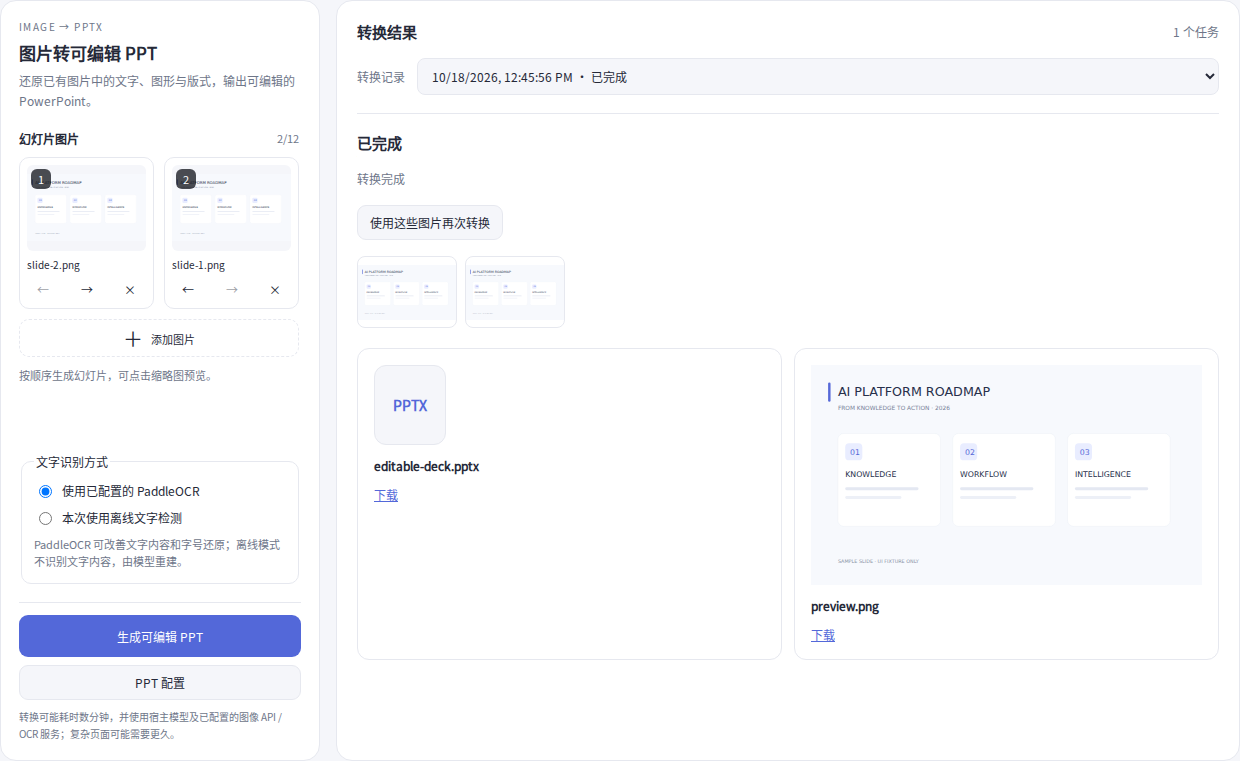
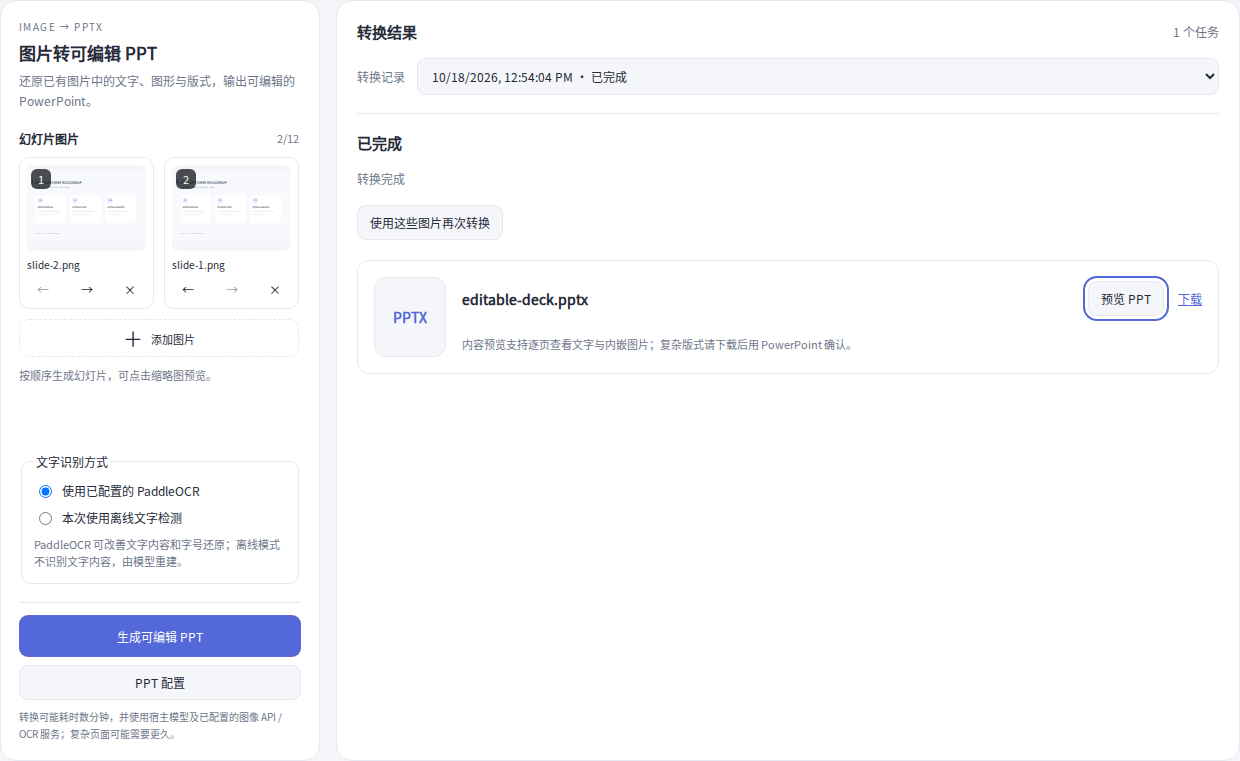
feat: preview final PPT only and retain task diagnostic identifiers

diff --git a/src/client/PptWorkspace.tsx b/src/client/PptWorkspace.tsx
@@ -4,6 +4,7 @@ import type { CanvasAssetRef, CanvasSkillCatalog, CanvasSkillTask } from '../pro
 import type { ImageGenApi } from './api.ts'
 import { errorMessage, tt } from './helpers.ts'
 import { useImageGenLanguageTick } from './use-language.ts'
+import { CanvasFileOverlay } from './CanvasFilePreview.tsx'
 import { PptSetup, PPT_SKILL_NAME } from './PptSetup.tsx'
 import css from './ppt-workspace.module.css'
 
@@ -50,7 +51,9 @@ export function PptWorkspace({ api, active, importRequest, onImported }: { api: 
   const [error, setError] = useState('')
   const [settingsOpen, setSettingsOpen] = useState(false)
   const [sourcePreview, setSourcePreview] = useState<CanvasAssetRef>()
-  useEffect(() => { if (!active) { setSettingsOpen(false); setSourcePreview(undefined) } }, [active])
+  const [pptPreview, setPptPreview] = useState<CanvasAssetRef>()
+  const [diagnostic, setDiagnostic] = useState<CanvasSkillTask>()
+  useEffect(() => { if (!active) { setSettingsOpen(false); setSourcePreview(undefined); setPptPreview(undefined); setDiagnostic(undefined) } }, [active])
   const [selected, setSelected] = useState<string>()
   const fileInput = useRef<HTMLInputElement>(null)
   const uploadQueue = useRef(Promise.resolve())
@@ -163,22 +166,28 @@ export function PptWorkspace({ api, active, importRequest, onImported }: { api: 
           <div className={css.resultActions}>
             <button type="button" disabled={busy || uploading} onClick={() => { commit(focused.pptImages ?? []); setError('') }}>{tt('ppt.reuseImages')}</button>
             {focused.status === 'failed' || focused.status === 'cancelled' ? <button type="button" disabled={!ready || busy || uploading || !focused.pptImages?.length} onClick={() => { commit(focused.pptImages ?? []); void submit(focused.pptImages) }}>{tt('ppt.retry')}</button> : null}
-            {focused.status === 'failed' ? <button type="button" onClick={() => setSettingsOpen(true)}>{tt('ppt.checkSetup')}</button> : null}
+            {focused.status === 'failed' ? <><button type="button" onClick={() => setSettingsOpen(true)}>{tt('ppt.checkSetup')}</button><button type="button" data-ppt-diagnostic="" onClick={() => setDiagnostic(focused)}>{tt('ppt.diagnostic')}</button></> : null}
           </div>
-          <div className={css.sourceStrip}>{focused.pptImages?.map((image, index) => <img key={index} src={image.url} alt={`Slide ${index + 1}`} />)}</div>
           {focused.output?.warnings.map((warning, index) => <p key={index} className={css.note}>{warning}</p>)}
           <div className={css.outputs}>{focused.output?.nodes.map(node => {
             const asset = node.metadata?.asset
-            if (!asset) return null
-            return <article key={node.id}>
-              {asset.mime.startsWith('image/') ? <img src={`${asset.url}?inline=1`} alt={asset.name || node.title} /> : <span className={css.fileIcon}>{asset.name?.toLowerCase().endsWith('.pptx') ? 'PPTX' : 'FILE'}</span>}
-              <strong>{asset.name || node.title}</strong><a href={asset.url} download={asset.name}>{tt('download')}</a>
+            if (!asset || !asset.name?.toLowerCase().endsWith('.pptx')) return null
+            return <article key={node.id} className={css.deckCard} data-ppt-deck="">
+              <span className={css.fileIcon}>PPTX</span>
+              <strong>{asset.name || node.title}</strong>
+              <div className={css.deckActions}><button type="button" data-ppt-preview="" onClick={() => setPptPreview(asset)}>{tt('ppt.previewDeck')}</button><a href={asset.url} download={asset.name}>{tt('download')}</a></div>
+              <small>{tt('ppt.previewHint')}</small>
             </article>
           })}</div>
         </section> : null}
       </>}
     </main>
     {settingsOpen ? <PptDialog title={tt('ppt.settingsTitle')} close={() => setSettingsOpen(false)}><PptSetup /></PptDialog> : null}
+    {diagnostic ? <PptDialog title={tt('ppt.diagnostic')} close={() => setDiagnostic(undefined)}>
+      <p className={css.diagnosticHint}>{tt(diagnostic.agentSessionId ? 'ppt.diagnosticHint' : 'ppt.legacyDiagnostic')}</p>
+      <textarea className={css.diagnosticText} readOnly rows={14} aria-label={tt('ppt.diagnostic')} onFocus={event => event.currentTarget.select()} value={JSON.stringify({ taskId: diagnostic.id, status: diagnostic.status, startedAt: new Date(diagnostic.startedAt).toISOString(), finishedAt: diagnostic.finishedAt ? new Date(diagnostic.finishedAt).toISOString() : undefined, agentSessionId: diagnostic.agentSessionId, runDirectory: diagnostic.runDirectory, error: diagnostic.error, inputCount: diagnostic.pptImages?.length }, null, 2)} />
+    </PptDialog> : null}
+    {pptPreview ? createPortal(<CanvasFileOverlay key={pptPreview.assetId} api={api} asset={pptPreview} fileKind="office" title={pptPreview.name || 'PPTX'} onClose={() => setPptPreview(undefined)} />, document.body) : null}
     {sourcePreview ? <PptDialog title={sourcePreview.name || tt('ppt.previewSource')} close={() => setSourcePreview(undefined)}><img className={css.sourcePreview} src={sourcePreview.url} alt={sourcePreview.name || ''} /></PptDialog> : null}
   </div>
 }

diff --git a/src/client/locales.ts b/src/client/locales.ts
@@ -3,6 +3,13 @@
  */
 
 export const zh = {
+  "ppt.diagnostic": "任务诊断",
+  "ppt.diagnosticHint": "这里保留任务、Agent 会话和运行目录，便于关联 DSH 运行日志。点击文本框可全选复制。",
+  "ppt.legacyDiagnostic": "这是旧任务，未保存 Agent 会话和原始错误，无法从这个通用报错恢复根因。请提供任务时间附近的 DSH 运行日志；点击文本框可复制任务信息。",
+
+  "ppt.previewDeck": "预览 PPT",
+  "ppt.previewHint": "内容预览支持逐页查看文字与内嵌图片；复杂版式请下载后用 PowerPoint 确认。",
+
   "ppt.agentFailed": "转换执行失败：{error}",
   "ppt.noAgentReply": "执行器没有返回回复或产物。请检查 DSH 默认模型的连接、额度及 Agent 预设中的文件和命令工具。",
 
@@ -1029,6 +1036,13 @@ export const zh = {
 } as const
 
 export const en: Record<keyof typeof zh, string> = {
+  "ppt.diagnostic": "Task diagnostics",
+  "ppt.diagnosticHint": "Use the task, agent session and directory to locate the DSH execution logs. Click the text area to select all.",
+  "ppt.legacyDiagnostic": "This older task did not retain its agent session or original error. Its root cause cannot be recovered from this generic message. Provide DSH logs around the task time. Click to copy the task details.",
+
+  "ppt.previewDeck": "Preview PPT",
+  "ppt.previewHint": "Content preview shows slide text and embedded pictures. Check complex layouts in PowerPoint after downloading.",
+
   "ppt.agentFailed": "Conversion execution failed: {error}",
   "ppt.noAgentReply": "The agent returned no reply or artifact. Check the DSH default model connection/quota and the preset file and command tools.",
 
@@ -2045,6 +2059,13 @@ export type ImageGenKey = keyof typeof zh
 
 /** Russian mirror of every key (полный словарь интерфейса). */
 export const ru: Record<keyof typeof zh, string> = {
+  "ppt.diagnostic": "Диагностика задания",
+  "ppt.diagnosticHint": "Используйте задание, сеанс агента и каталог для поиска журналов DSH. Нажмите текст для выделения.",
+  "ppt.legacyDiagnostic": "Старое задание не сохранило сеанс агента и исходную ошибку. Для определения причины нужны журналы DSH за время выполнения.",
+
+  "ppt.previewDeck": "Просмотр PPT",
+  "ppt.previewHint": "Просмотр показывает текст и встроенные изображения слайдов. Сложную вёрстку проверяйте в PowerPoint.",
+
   "ppt.agentFailed": "Ошибка преобразования: {error}",
   "ppt.noAgentReply": "Агент не вернул ответ или файл. Проверьте подключение/квоту модели DSH и инструменты файлов и команд.",
 

diff --git a/scripts/ppt-preview.tsx b/scripts/ppt-preview.tsx
@@ -10,6 +10,7 @@ const assets = [1, 2].map(index => ({ assetId: `slide-${index}.png`, url: '/slid
 let task: CanvasSkillTask | undefined
 const api = {
   async canvasFileUpload(file: File) { return { ...assets[0], name: file.name } },
+  async canvasFilePreview() { return { kind: 'slides', format: 'pptx', slides: [{ title: 'AI PLATFORM ROADMAP', lines: ['Editable presentation content', 'Knowledge → Workflow → Intelligence'], images: [] }, { title: 'NEXT STEPS', lines: ['Review the generated PPT in PowerPoint'], images: [] }], truncated: false } },
   async pptTasks() { return task ? [task] : [] },
   async canvasSkillsList() { return { skills: [], installed: ['image-to-editable-ppt'], agentAvailable: true, registryAvailable: true } },
   async canvasSkillLibrary() { return { entries: [{ name: 'image-to-editable-ppt', config: { values: [{ id: 'paddle-ocr-token', set: true }] } }] } },
@@ -27,6 +28,7 @@ function Preview() {
     <button onClick={() => {
       task = { id: 'ppt-preview', canvasId: 'ppt', skillId: 'ppt.fromImages', label: 'PPT', tier: 'heavy', status: 'completed', startedAt: Date.now() - 204000, pptImages: assets, stage: '转换完成', output: { nodes: [{ id: 'deck', type: 'file', title: 'editable-deck.pptx', x: 0, y: 0, width: 300, height: 170, metadata: { asset: { ...assets[0], assetId: 'deck.pptx', mime: 'application/vnd.openxmlformats-officedocument.presentationml.presentation', name: 'editable-deck.pptx', url: '/deck.pptx' } } }, { id: 'preview', type: 'file', title: 'preview.png', x: 0, y: 0, width: 300, height: 170, metadata: { asset: { ...assets[0], name: 'preview.png' } } }], connections: [], warnings: [] } }
     }}>示例完成</button>
+    <button onClick={() => { if (task) task = { ...task, status: 'failed', error: 'Model API returned 401', agentSessionId: 'skillagent-preview', runDirectory: '/example/ppt/run' } }}>示例失败</button>
     <button onClick={() => { task = undefined }}>清空示例</button>
   </header>{setup ? <main className="settings"><h2>图片转可编辑 PPT 配置</h2><PptSetup /></main> : <main><PptWorkspace api={api} active importRequest={importRequest} onImported={() => setImport(undefined)} /></main>}</div>
 }

diff --git a/src/client/ppt-workspace.module.css b/src/client/ppt-workspace.module.css
@@ -97,3 +97,13 @@
 .inputs .addTile { grid-column: 1 / -1; min-height: 38px; height: 38px; }
 .addTile > button { flex: none; flex-direction: row; min-height: 38px; height: 38px; padding: 4px 8px; }
 .addTile > button span { font-size: 20px; }
+
+.outputs { display: flex; flex-direction: column; }
+.outputs .deckCard { display: grid; grid-template-columns: 72px minmax(0, 1fr) auto; align-items: center; gap: 10px 16px; }
+.deckCard > .fileIcon { grid-row: span 2; }
+.outputs .deckCard > strong { font-size: 14px; }
+.deckActions { display: flex; align-items: center; gap: 14px; }
+.deckCard > small { grid-column: 2 / -1; color: var(--dsw-alias-label-secondary); font-size: 11px; line-height: 1.7; }
+@media (max-width: 760px) { .outputs .deckCard { grid-template-columns: 52px minmax(0, 1fr); gap: 12px; } .deckCard > .fileIcon { width: 52px; height: 64px; grid-row: span 2; } .deckActions { grid-column: 2; } .deckCard > small { grid-column: 1 / -1; } }
+.diagnosticHint { margin: 0 0 12px; color: var(--dsw-alias-label-secondary); font-size: 12px; line-height: 1.7; }
+.diagnosticText { width: 100%; box-sizing: border-box; resize: vertical; padding: 12px; border: 1px solid var(--dsw-alias-border-l2); border-radius: 8px; background: var(--dsw-alias-bg-layer-2); color: inherit; font: 12px/1.6 monospace; }

diff --git a/src/skill-runner.ts b/src/skill-runner.ts
@@ -849,6 +849,7 @@ export class SkillRunner {
     const target = inputs.find(input => request.nodeIds.includes(input.node.id)) ?? inputs[0]!
     const runRoot = this.options.runRoot().trim() === '' ? path.join(this.options.dataRoot(), 'canvas', 'runs') : this.options.runRoot().trim()
     const runDir = path.join(runRoot, request.canvasId, task.id)
+    if (task.canvasId === 'ppt') task.runDirectory = runDir
     const inputDir = path.join(runDir, 'input')
     const outputDir = path.join(runDir, 'output')
     await fs.mkdir(inputDir, { recursive: true })
@@ -912,8 +913,10 @@ export class SkillRunner {
     const cancelled = (): boolean => task.status === 'cancelled'
     try {
       if (cancelled()) throw new Error(t('canvas.skills.stageCancelled'))
+      const sessionId = newId('skillagent')
+      if (task.canvasId === 'ppt') { task.agentSessionId = sessionId; await this.persistPpt(task) }
       handle = await agents.create({
-        sessionId: newId('skillagent'),
+        sessionId,
         cwd: runDir,
         systemPrompt,
         signal: controller.signal,

diff --git a/scripts/ppt-preview.config.ts b/scripts/ppt-preview.config.ts
@@ -5,6 +5,6 @@ export default {
   entry: { preview: fileURLToPath(new URL('./ppt-preview.tsx', import.meta.url)) },
   outDir: fileURLToPath(new URL('../.ppt-preview', import.meta.url)),
   format: 'iife', sourcemap: false, clean: true,
-  deps: { alwaysBundle: ['react', 'react-dom'] },
+  deps: { alwaysBundle: ['react', 'react-dom', 'lucide-react'] },
   outputOptions: { entryFileNames: 'preview.js', banner: '', footer: '', intro: '' },
 }

diff --git a/src/protocol.ts b/src/protocol.ts
@@ -549,6 +549,9 @@ export interface CanvasSkillOutput {
 }
 
 export interface CanvasSkillTask {
+  /** Trace identifiers for finding the corresponding host execution log. */
+  agentSessionId?: string
+  runDirectory?: string
   /** Standalone PPT conversions retain their ordered input thumbnails. */
   pptImages?: CanvasAssetRef[]
   id: string

diff --git a/docs/releases/v1.9.1.md b/docs/releases/v1.9.1.md
@@ -6,6 +6,8 @@
 - 上传后移除大上传区域，改为缩略图网格与「＋」卡片，支持点击预览、移动顺序和删除。
 - 优化操作区与结果区：桌面端图片列表单独滚动，转换记录用下拉选择，失败提示保留换行并提供复用图片、重新转换、检查配置入口。
 
+- 结果区仅展示最终 PPTX，移除原图、辅助预览图与其他文件卡片；新增 PPT 内容预览和任务诊断入口。预览可查看文字与内嵌图片，复杂版式以 PowerPoint 为准。
+
 本版为审核包，尚未合并或发布 npm。自动回归覆盖宿主错误、脱敏、上游final产物收集、未通过校验的产物拒绝、原有生图功能；浏览器检查缩略图替换上传区、独立配置弹窗、上传排序、取消、下载与不同视口。
 
 截图反馈无法确定用户本机的实际模型/API错误，更新后将显示具体错误；本地未使用用户的真实宿主凭据完成模型转换。
